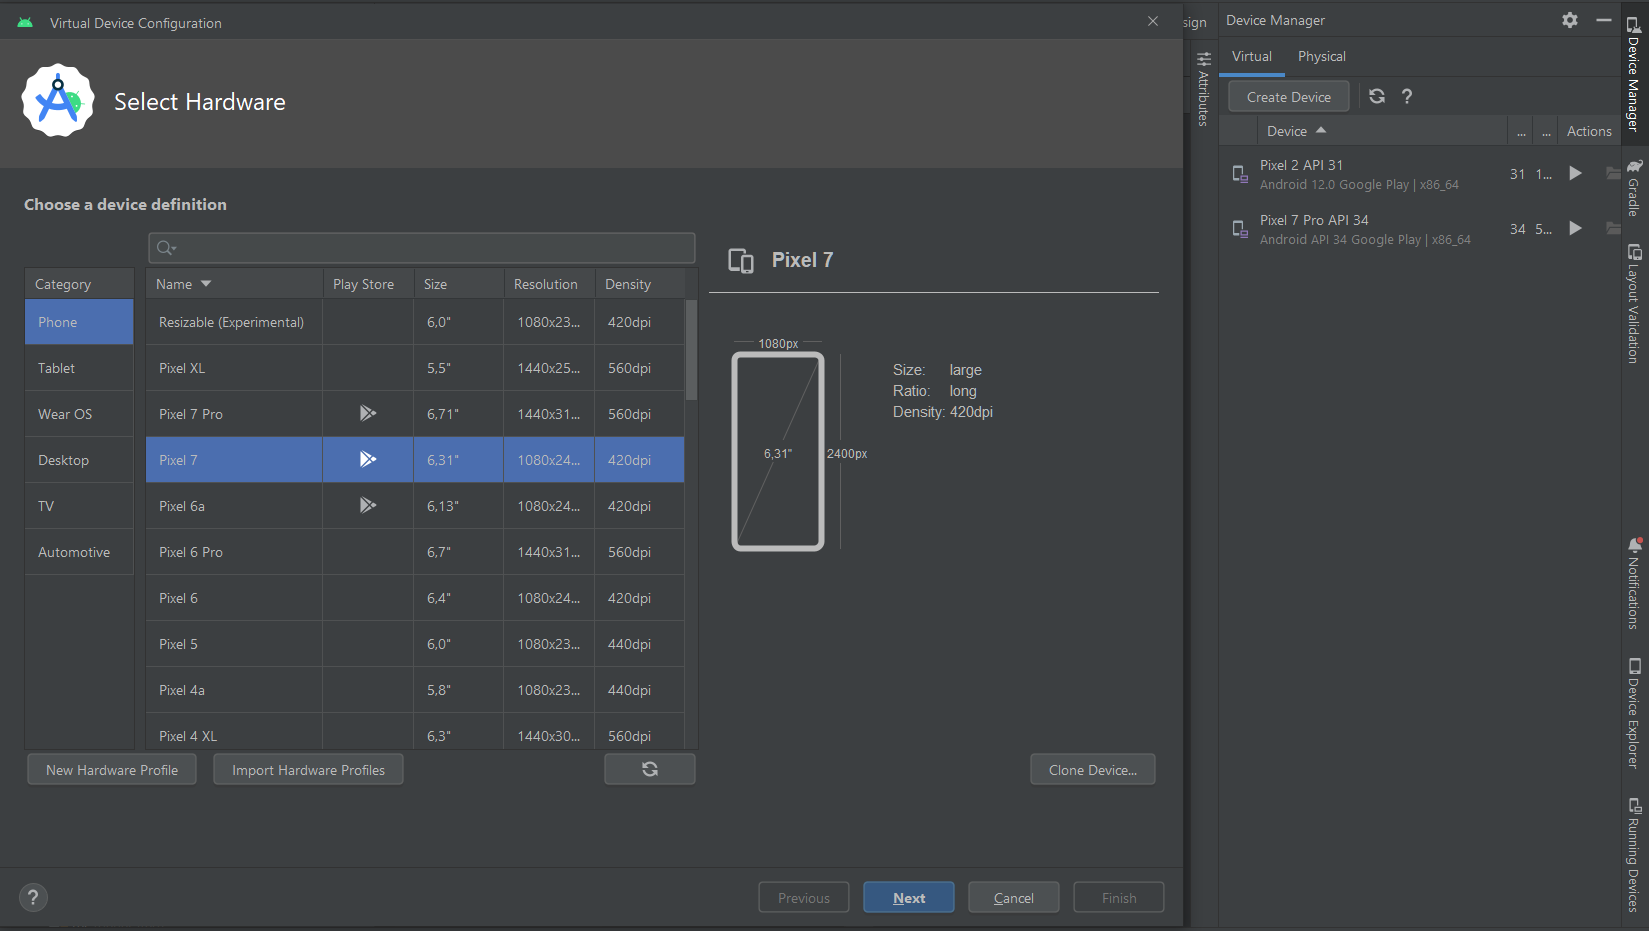
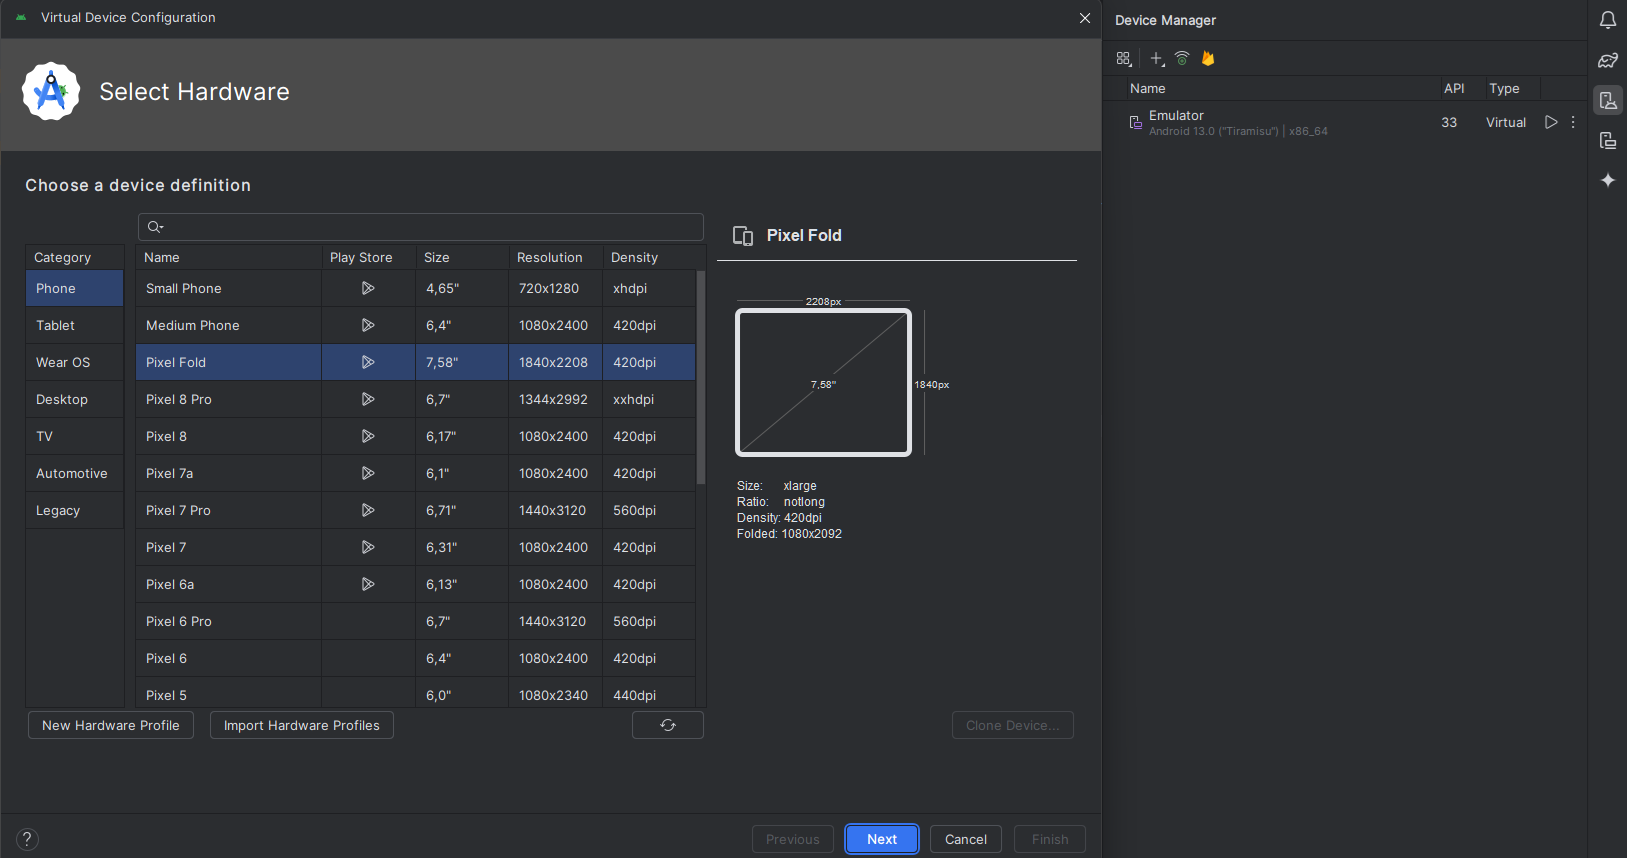
lab01 in compose v1
Lab01 in compose v1, régi technológia compose-ra írása.

diff --git a/docs/laborok/01-android-hello-world/index.md b/docs/laborok/01-android-hello-world/index.md
@@ -58,18 +58,15 @@ A feladatok megoldása során a dokumentációt markdown formátumban készítsd
 
 ### Fordítás menete Android platformon
 
-A projekt létrehozása után a forráskód az `src` könyvtárban, míg a felhasználói felület leírására szolgáló XML állományok a `res` könyvtárban találhatók. Az erőforrás állományokat egy `R.java` állomány köti össze a forráskóddal, így könnyedén elérhetjük Java/Kotlin oldalról az XML-ben definiált felületi elemeket. Az Android projekt fordításának eredménye egy APK állomány, melyet közvetlenül telepíthetünk mobil eszközre.
+A projekt létrehozása után a forráskód az `src` könyvtárban található. A felhasználói felületet Jetpack Compose használatával, közvetlenül Kotlin kódban definiáljuk, így nincs szükség XML állományokra. Az Android projekt fordításának eredménye egy APK állomány, melyet közvetlenül telepíthetünk mobil eszközre. Jetpack Compose segítségével könnyedén elérhetjük és kezelhetjük a felületi elemeket Kotlin kódból, megkönnyítve ezzel a modern, deklaratív felületkialakítást.
 
 ![](assets/lab-1-compile.png)
 
 *Fordítás menete Android platformon*
 
-1.  A fejlesztő elkészíti a Kotlin forráskódot, valamint az XML alapú felhasználói felület leírást a szükséges erőforrás állományokkal.
+1.  A fejlesztő elkészíti a Kotlin forráskódot, amelyben a felhasználói felületet Jetpack Compose segítségével definiálja. Nincs szükség külön XML alapú felhasználói felület leírásra.
 
-2.  A fejlesztőkörnyezet az erőforrás állományokból folyamatosan naprakészen tartja az `R.java` erőforrás fájlt a fejlesztéshez és a fordításhoz. 
-
-    !!! danger "FONTOS"
-     	**Az `R.java` állomány generált, kézzel SOHA ne módosítsuk!** (Az Android Studio egyébként nem is hagyja.)
+2.  A fejlesztőkörnyezet folyamatosan naprakészen tartja a Compose elemekhez kapcsolódó erőforrásokat és a szükséges build állományokat a fejlesztéshez és a fordításhoz.
 
 3.  A fejlesztő a Manifest állományban beállítja az alkalmazás hozzáférési jogosultságait (pl. Internet elérés, szenzorok használata, stb.), illetve ha futás idejű jogosultságok szükségesek, ezt kezeli.
 
@@ -113,7 +110,7 @@ SDK szerkezet:
 
 Az SDK kezelésére az SDK managert használjuk, ezzel lehet letölteni és frissen tartani az eszközeinket. Indítása az Android Studion keresztül lehetséges.
 
-Az SDK Manager ikonja a fenti toolbaron (vagy Tools -> SDK Manager):
+Az SDK Manager ikonja a fenti toolbaron a beállításoknál található (vagy Tools -> SDK Manager):
 
 ![](assets/sdk_manager_icon.png)
 
@@ -144,10 +141,10 @@ vagy
 
 ![](assets/avd_manager.png)
 
-A fenti képen jobb oldalon, a kinyíló panelben, a létező virtuális eszközök listáját találjuk, bal oldalon pedig az ún. eszköz definíciókét. Itt néhány előre elkészített sablon áll rendelkezésre. Magunk is készíthetünk ilyet, ha tipikusan egy adott eszközre szeretnénk fejleszteni (pl. Galaxy S4). Készítsünk új emulátort! Értelemszerűen csak olyan API szintű eszközt készíthetünk, amilyenek rendelkezésre állnak az SDK manageren keresztül.
+A fenti képen jobb oldalon, a kinyíló panelben, a létező virtuális eszközök listáját találjuk, bal oldalon pedig az ún. eszköz definíciókét. (Ezt az *Add a new device* fül, majd a *Create Virtual Device* füllel tudjuk megnyitni a jobb oldalon lévő `+` ikonnal) Itt néhány előre elkészített sablon áll rendelkezésre. Magunk is készíthetünk ilyet, ha tipikusan egy adott eszközre szeretnénk fejleszteni (pl. Galaxy S24). Készítsünk új emulátort! Értelemszerűen csak olyan API szintű eszközt készíthetünk, amilyenek rendelkezésre állnak az SDK manageren keresztül.
 
 1. A jobb oldali panelon kattintsunk a fent található *Create Virtual Device...* gombra!
-2. Válasszunk az előre definiált készülék sablonokból (pl. *Pixel 7 Pro*), majd nyomjuk meg a *Next* gombot.
+2. Válasszunk az előre definiált készülék sablonokból (pl. *Pixel 8 Pro*), majd nyomjuk meg a *Next* gombot.
 3. Döntsük el, hogy milyen Android verziójú emulátort kívánunk használni. CPU/ABI alapvetően x86_64 legyen, mivel ezekhez kapunk [hardveres gyorsítást](https://developer.android.com/studio/run/emulator-acceleration) is. Itt válasszunk a rendelkezésre állók közül egyet, majd *Next*.
 4. Az eszköz részletes konfigurációja.
 
@@ -161,7 +158,7 @@ A fenti képen jobb oldalon, a kinyíló panelben, a létező virtuális eszköz
         - *Emulated*, egy egyszerű szoftveres megoldás, **most legalább az egyik kamera legyen ilyen**.
         - *VirtualScene*, egy kifinomultabb szoftveres megoldás, amelyben egy 3D világban mozgathatjuk a kamerát.
     - Hálózat: Állíthatjuk a sebességét és a késleltetését is kommunikációs technológiák szerint.
-    - *Boot Option*: Nemrég jelent meg az Android emulátor állapotáról való pillanatkép elmentésének lehetősége. Ez azt takarja, hogy a virtuális operációs rendszer csak felfüggesztésre kerül az emulátor bezáráskor (például a megnyitott alkalmazás is megmarad, a teljes állapotával), és *Quick boot* esetben a teljes OS indítása helyett másodperceken belül elindul az emulált rendszer. *Cold Boot* esetben minden alkalommal leállítja és újra indítja a virtális eszköz teljes operációs rendszerét.
+    - *Boot Option*: (Nemrég jelent meg az) Az Android emulátor állapotáról való pillanatkép elmentésének lehetősége. Ez azt takarja, hogy a virtuális operációs rendszer csak felfüggesztésre kerül az emulátor bezáráskor (például a megnyitott alkalmazás is megmarad, a teljes állapotával), és *Quick boot* esetben a teljes OS indítása helyett másodperceken belül elindul az emulált rendszer. *Cold Boot* esetben minden alkalommal leállítja és újra indítja a virtális eszköz teljes operációs rendszerét.
     - Memória és tárhely: 
         - RAM: Ha kevés a rendszermemóriánk, nem érdemes 768 MB-nál többet adni, mert könnyen futhatunk problémákba. Ha az emulátor lefagy, vagy az egész OS megáll működés közben, akkor állítsuk alacsonyabbra ezt az értéket. 8 GB vagy több rendszermemória mellett nyugodtan állíthatjuk az emulátor memóriáját 1024, 1536, vagy 2048 MB-ra.
         - VM heap: az alkalmazások virtuális gépének szól, maradhat az alapérték. Tudni kell, hogy készülékek esetében gyártónként változik.
@@ -180,7 +177,7 @@ Az elindított emulátoron próbáljuk ki az *API Demos* és *Dev Tools* alkalma
 !!! note "Megjegyzés"
 	A gyári emulátoron kívül több alternatíva is létezik, mint pl. a [Genymotion](https://www.genymotion.com/fun-zone/) vagy a [BigNox](https://www.bignox.com/), viszont a Google féle emulátor a legelterjedtebb, így amennyiben ezzel nem jelentkeznek problémáink, maradjunk ennél.
 
-Tesztelés céljából nagyon jól használható az emulátor, amely az alábbi képen látható plusz funkciókat is adja. Lehetőség van többek között egyedi hely beállítására, bejövő hívás szimulálására, stb. A panelt a futó emulátor jobb oldalán található vezérlő gombok közül a *...* gombbal lehet megnyitni:
+Tesztelés céljából nagyon jól használható az emulátor, amely az alábbi képen látható plusz funkciókat is adja. Lehetőség van többek között egyedi hely beállítására, bejövő hívás szimulálására, virtuálisan szenzorok manipulálására, stb. A panelt a futó emulátor jobb oldalán található vezérlő gombok közül a *...* gombbal lehet megnyitni:
 
 ![](assets/avd_extras.png)
 
@@ -191,23 +188,27 @@ Tesztelés céljából nagyon jól használható az emulátor, amely az alábbi 
 
 ![](assets/studio_old.png)
 
-Az Android Studio Giraffe-ban megújult a környezet felhasználói felülete. Amint látható, jóval letisztultabb dizájnt választottak, sokkal kevesebb a figyelmet elvonó extra a képernyőn, sokkal inkább a kódon van a hangsúly. Ezek között a nézetek között egyszerűen válthatunk a Beállításokban, a New UI menüpontban.
+Pár frissítéssel ezelőtt, az Android Studio Giraffe-ban megújult a környezet felhasználói felülete. Amint látható, jóval letisztultabb dizájnt választottak, sokkal kevesebb a figyelmet elvonó extra a képernyőn, sokkal inkább a kódon van a hangsúly. Ezek között a nézetek között egyszerűen válthatunk a Beállításokban, a New UI menüpontban. (*Settings -> Appeareance & Behavior -> New UI*)
 
 ![](assets/studio_new.png)
 
 
 ## Hello World
 
-A laborvezető segítségével készítsünk egy egyszerű Hello World alkalmazást, a varázsló nézeten az *Include Kotlin support* legyen bepipálva! 
-1. Hozzunk létre egy új projektet, válasszuk az *Empty Views Activity* lehetőséget.
-1. A projekt neve legyen `HelloWorld`, a kezdő package `hu.bme.aut.mobweb.helloworld`, a mentési hely pedig a kicheckoutolt repository-n belül a `HelloWorld` mappa.
-1. Nyelvnek válasszuk a *Kotlin*-t.
-1. A minimum API szint legyen API24: Android 7.0.
-1. A `Build configuration language` Kotlin DSL legyen.
+A laborvezető segítségével készítsünk egy egyszerű Hello World alkalmazást.
+
+1. Hozzunk létre egy új projektet, válasszuk az *Empty Activity* lehetőséget.
+2. A projekt neve legyen `HelloWorld`, a kezdő package `hu.bme.aut.mobweb.helloworld`, a mentési hely pedig a kicheckoutolt repository-n belül a `HelloWorld` mappa.
+3. Nyelvnek válasszuk a *Kotlin*-t.
+4. A minimum API szint legyen API24: Android 7.0.
+5. A `Build configuration language` Kotlin DSL legyen.
 
 
 !!!warning "FILE PATH"
 	A projekt a repository-ban lévő HelloWorld könyvtárba kerüljön!
+
+!!!danger "FILE PATH"
+    A projektnek az elérési Path-je csak az angol ábécé kis betűit tartalmazza, ugyanis az Android Studio az ékezetekre és a speciális karakterekre érzékeny!
 
 ### Android Studio
 
@@ -232,10 +233,9 @@ Ez a rész azoknak szól, akik korábban már használták az Eclipse nevű IDE-
     *   Szigorú lint. A Studio megengedi a warningot. Ezért szigorúbb a lint, több mindenre figyelmeztet (olyan apróságra is, hogy egy View egyik oldalán van padding, a másikon nincs)
     *   Layout szerkesztés. A grafikus layout építés lehetséges.
     *   CTRL-t lenyomva navigálhatunk a kódban, pl. osztályra, metódushívásra kattintva. Ezt a navigációt (és az egyszerű másik osztályba kattintást is) rögzíti, és a historyban előre-hátra gombokkal lehet lépkedni. Ha van az egerünkön/billentyűzetünkön ilyen gomb, és netes böngészés közben aktívan használjuk, ezt a funkciót nagyon hasznosnak fogjuk találni.
+    *   Ha több fájl is meg van nyitva egyszerre, könnyen navigálhatunk az <kbd>ALT</kbd> + <kbd>BAL</kbd>/<kbd>JOBB</kbd> nyilak segítségével az fájlok között.
 
 ![](assets/nice_studio.png)
-
-*Szín ikonja a sor elején; kiemelve jobb oldalon, hogy melyik nézeten vagyunk; szabadszavas kiegészítés; a "Hello world" igazából `@string/very_very_very_long_hello_world`.*
 
 
 ### Billentyűkombinációk
@@ -255,6 +255,7 @@ Ez a rész azoknak szól, akik korábban már használták az Eclipse nevű IDE-
 *   <kbd>CTRL</kbd> + <kbd>SHIFT</kbd> + <kbd>N</kbd>: Keresés fájlokban
 *   <kbd>CTRL</kbd> + <kbd>ALT</kbd> + <kbd>SHIFT</kbd> + <kbd>N</kbd>: Keresés szimbólumokban (például függvények, property-k)
 *   <kbd>CTRL</kbd> + <kbd>SHIFT</kbd> + <kbd>A</kbd>: Keresés a beállításokban, kiadható parancsokban.
+*   <kbd>ALT</kbd> + <kbd>ENTER</kbd> hiányzó elemek importálása/létrehozása.
 
 ### Eszközök, szerkesztők
 
@@ -268,7 +269,7 @@ A *View* menü *Tool Windows* menüpontjában lehetőség van különböző abla
 *   Event Log
 *   Gradle
 
-Lehetőség van felosztani a szerkesztőablakot, ehhez kattinsunk egy megnyitott fájl tabfülére jobb gombbal, *Split Vertically/Horizontally*!
+Lehetőség van felosztani a szerkesztőablakot, ehhez kattinsunk egy megnyitott fájl tabfülére jobb gombbal, *Split Right/Down* vagy csak kattintsunk rá hosszan és kezdjük el húzni a kódfelületre!
 
 ### Hasznos beállítások
 
@@ -276,7 +277,7 @@ A laborvezető segítségével állítsák be a következő hasznos funkciókat:
 
 *   kis- nagybetű érzékenység kikapcsolása a kódkiegészítőben (settingsben keresés: *sensitive*)
 *   "laptop mód" ki- és bekapcsolása (*File -> Power Save Mode*)
-*   sorszámozás bekapcsolása (kód melletti részen bal oldalt: jobb egérgomb, *Show Line Numbers*)
+*   sorszámozás bekapcsolása (kód melletti részen bal oldalt: jobb egérgomb, *Appearance -> Show Line Numbers*)
 
 ### Generálható elemek
 
@@ -299,13 +300,13 @@ Például részletes információt kaphatunk a hálózati forgalomról:
 
 ## Database Inspector
 
-A készüléken debuggolt alkalmazásunknak az [adatbázisát](https://developer.android.com/studio/inspect/database) is meg tudjuk tekinteni.
+A készüléken debuggolt alkalmazásunknak az [adatbázisát](https://developer.android.com/studio/inspect/database) is meg tudjuk tekinteni. (*View -> Tool Windows -> App Inspection*)
 
 ![](assets/di.png)
 
 ## Device File Explorer
 
-A készüléken lévő fájlrendszert is [böngészhetjük](https://developer.android.com/studio/debug/device-file-explorer).
+A készüléken lévő fájlrendszert is [böngészhetjük](https://developer.android.com/studio/debug/device-file-explorer). (*View -> Tool Windows -> Device Explorer*)
 
 ![](assets/dfe.png)
 
